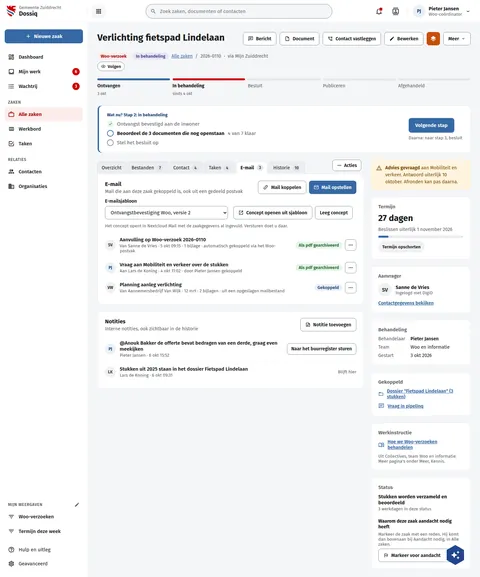
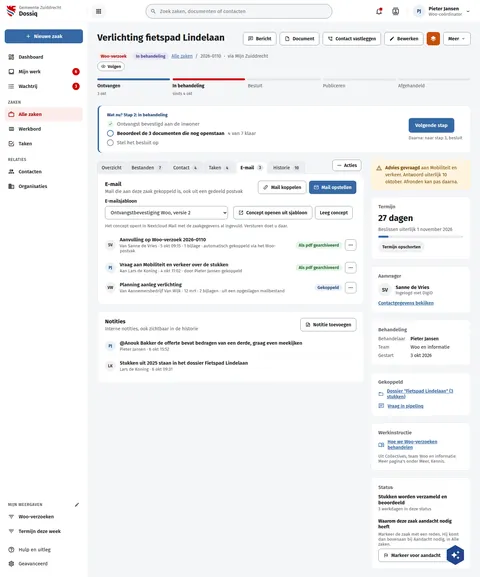
fix(screens): DqZaakEmail notes without an outcome line
The note rows drew an outcome ("Naar het buurregister sturen", "Blijft
hier") that dossiq has no field or action for. The board now draws the
note, its author and its time, as live does.

Assisted-by: ClaudeCode:claude-opus-5-5

Changed region(s): [[0.2188, 0.5927, 0.5312, 0.6551], [0.5938, 0.5927, 0.75, 0.6551]]

diff --git a/preview/screens/boards/DqZaakEmail.html b/preview/screens/boards/DqZaakEmail.html
@@ -228,7 +228,7 @@ a{color:var(--sc-primary, #3669a5)}a:hover{color:var(--sc-primary-deep, #234a78)
               <button type="button" aria-haspopup="menu" style="flex: none; align-self: flex-start; margin: 0 8px 8px 0; display: inline-flex; align-items: center; gap: 6px; min-height: 34px; padding: 0 12px; border: 1px solid var(--sc-work-field, #828a95); border-radius: 8px; background: #ffffff; font: 600 14px var(--sc-font, 'Fira Sans'), sans-serif; color: var(--sc-work-ink, #1b1c1d)"><svg width="16" height="16" viewbox="0 0 24 24" fill="currentColor"><path d="M16,12A2,2 0 0,1 18,10A2,2 0 0,1 20,12A2,2 0 0,1 18,14A2,2 0 0,1 16,12M10,12A2,2 0 0,1 12,10A2,2 0 0,1 14,12A2,2 0 0,1 12,14A2,2 0 0,1 10,12M4,12A2,2 0 0,1 6,10A2,2 0 0,1 8,12A2,2 0 0,1 6,14A2,2 0 0,1 4,12Z"></path></svg>Acties</button>
             </div>
             <section aria-label="E-mail" style="background: #ffffff; border: 1px solid var(--sc-work-line, #e4e6ea); border-radius: 0 12px 12px 12px; padding: 20px 22px; display: flex; flex-direction: column; gap: 12px"><div style="display: flex; flex-wrap: wrap; justify-content: space-between; align-items: flex-start; gap: 10px 16px"><div style="flex: 1 1 260px; min-width: 0; display: flex; flex-direction: column; gap: 3px"><h2 style="margin: 0; font-size: 17px; font-weight: 700">E-mail</h2><span style="font-size: 14px; color: var(--sc-work-muted, #5e6168)">Mail die aan deze zaak gekoppeld is, ook uit een gedeeld postvak</span></div><div style="flex: none; display: flex; flex-wrap: wrap; gap: 8px"><button type="button" style="display: inline-flex; align-items: center; gap: 8px; height: 40px; padding: 0 14px; border-radius: 8px; font: 600 14px var(--sc-font, 'Fira Sans'), sans-serif; white-space: nowrap; border: 1px solid var(--sc-work-field, #828a95); background: #ffffff; color: var(--sc-work-ink, #1b1c1d)"><svg width="16" height="16" viewbox="0 0 24 24" fill="currentColor" aria-hidden="true"><path d="M10.59,13.41C11,13.8 11,14.44 10.59,14.83C10.2,15.22 9.56,15.22 9.17,14.83C7.22,12.88 7.22,9.71 9.17,7.76V7.76L12.71,4.22C14.66,2.27 17.83,2.27 19.78,4.22C21.73,6.17 21.73,9.34 19.78,11.29L18.29,12.78C18.3,11.96 18.17,11.14 17.89,10.36L18.36,9.88C19.54,8.71 19.54,6.81 18.36,5.64C17.19,4.46 15.29,4.46 14.12,5.64L10.59,9.17C9.41,10.34 9.41,12.24 10.59,13.41M13.41,9.17C13.8,8.78 14.44,8.78 14.83,9.17C16.78,11.12 16.78,14.29 14.83,16.24V16.24L11.29,19.78C9.34,21.73 6.17,21.73 4.22,19.78C2.27,17.83 2.27,14.66 4.22,12.71L5.71,11.22C5.7,12.04 5.83,12.86 6.11,13.65L5.64,14.12C4.46,15.29 4.46,17.19 5.64,18.36C6.81,19.54 8.71,19.54 9.88,18.36L13.41,14.83C14.59,13.66 14.59,11.76 13.41,10.59C13,10.2 13,9.56 13.41,9.17Z"></path></svg>Mail koppelen</button><button type="button" style="display: inline-flex; align-items: center; gap: 8px; height: 40px; padding: 0 14px; border-radius: 8px; font: 600 14px var(--sc-font, 'Fira Sans'), sans-serif; white-space: nowrap; border: 0; background: var(--sc-primary, #3669a5); color: #ffffff"><svg width="16" height="16" viewbox="0 0 24 24" fill="currentColor" aria-hidden="true"><path d="M22 6C22 4.9 21.1 4 20 4H4C2.9 4 2 4.9 2 6V18C2 19.1 2.9 20 4 20H20C21.1 20 22 19.1 22 18V6M20 6L12 11L4 6H20M20 18H4V8L12 13L20 8V18Z"></path></svg>Mail opstellen</button></div></div><div style="display: grid; grid-template-columns: repeat(auto-fit, minmax(260px, 1fr)); gap: 14px 16px"><div style="display: flex; flex-direction: column; gap: 6px; min-width: 0"><label for="f1" style="font-size: 14px; font-weight: 600">E-mailsjabloon</label><select id="f1" style="box-sizing: border-box; width: 100%; height: 40px; padding: 0 12px; border: 1px solid var(--sc-work-field, #828a95); border-radius: 8px; background: #ffffff; font: 400 15px var(--sc-font, 'Fira Sans'), sans-serif; color: var(--sc-work-ink, #1b1c1d)"><option>Kies een sjabloon (optioneel)</option><option selected>Ontvangstbevestiging Woo, versie 2</option><option>Verzoek om verduidelijking</option><option>Verdaging van de beslistermijn</option></select></div><div style="display: flex; align-items: flex-end; gap: 8px; flex-wrap: wrap"><button type="button" style="display: inline-flex; align-items: center; gap: 8px; height: 40px; padding: 0 14px; border-radius: 8px; font: 600 14px var(--sc-font, 'Fira Sans'), sans-serif; white-space: nowrap; border: 1px solid var(--sc-work-field, #828a95); background: #ffffff; color: var(--sc-work-ink, #1b1c1d)"><svg width="16" height="16" viewbox="0 0 24 24" fill="currentColor" aria-hidden="true"><path d="M14,3V5H17.59L7.76,14.83L9.17,16.24L19,6.41V10H21V3M19,19H5V5H12V3H5C3.89,3 3,3.9 3,5V19A2,2 0 0,0 5,21H19A2,2 0 0,0 21,19V12H19V19Z"></path></svg>Concept openen uit sjabloon</button><button type="button" style="display: inline-flex; align-items: center; gap: 8px; height: 40px; padding: 0 14px; border-radius: 8px; font: 600 14px var(--sc-font, 'Fira Sans'), sans-serif; white-space: nowrap; border: 1px solid var(--sc-work-field, #828a95); background: #ffffff; color: var(--sc-work-ink, #1b1c1d)">Leeg concept</button></div></div><span style="font-size: 13px; color: var(--sc-work-muted, #5e6168)">Het concept opent in Nextcloud Mail met de zaakgegevens al ingevuld. Versturen doet u daar.</span><ul style="margin: 0; padding: 0; list-style: none; display: flex; flex-direction: column"><li style="display: flex; flex-wrap: wrap; gap: 8px 16px; align-items: center; padding: 12px 0; border-top: 1px solid var(--sc-work-soft, #eef0f3)"><span style="flex: 1 1 260px; min-width: 0; display: flex; gap: 12px; align-items: center"><span aria-hidden="true" style="width: 32px; height: 32px; flex: none; border-radius: 16px; background: var(--sc-work-chip, #f0f1f3); color: var(--sc-work-text, #3d4047); display: inline-flex; align-items: center; justify-content: center; font-size: 12px; font-weight: 700">SV</span><span style="display: flex; flex-direction: column; gap: 2px; min-width: 0"><strong style="font-size: 15px; font-weight: 600">Aanvulling op Woo-verzoek 2026-0110</strong><span style="font-size: 13px; color: var(--sc-work-muted, #5e6168)">Van Sanne de Vries · 5 okt 09:15 · 1 bijlage · automatisch gekoppeld via het Woo-postvak</span></span></span><span style="flex: none; display: flex; flex-wrap: wrap; gap: 8px; align-items: center"><span style="display: inline-block; padding: 3px 10px; border-radius: 12px; background: #e7f3ea; color: #1e6b2a; font-size: 13px; font-weight: 600; white-space: nowrap">Als pdf gearchiveerd</span><button type="button" aria-label="Meer acties voor deze mail" style="width: 34px; height: 34px; display: inline-flex; align-items: center; justify-content: center; border: 1px solid var(--sc-work-field, #828a95); border-radius: 8px; background: #ffffff; color: var(--sc-work-text, #3d4047)"><svg width="18" height="18" viewbox="0 0 24 24" fill="currentColor" aria-hidden="true"><path d="M16,12A2,2 0 0,1 18,10A2,2 0 0,1 20,12A2,2 0 0,1 18,14A2,2 0 0,1 16,12M10,12A2,2 0 0,1 12,10A2,2 0 0,1 14,12A2,2 0 0,1 12,14A2,2 0 0,1 10,12M4,12A2,2 0 0,1 6,10A2,2 0 0,1 8,12A2,2 0 0,1 6,14A2,2 0 0,1 4,12Z"></path></svg></button></span></li><li style="display: flex; flex-wrap: wrap; gap: 8px 16px; align-items: center; padding: 12px 0; border-top: 1px solid var(--sc-work-soft, #eef0f3)"><span style="flex: 1 1 260px; min-width: 0; display: flex; gap: 12px; align-items: center"><span aria-hidden="true" style="width: 32px; height: 32px; flex: none; border-radius: 16px; background: var(--sc-primary-light, #eaf0f7); color: var(--sc-primary-deep, #234a78); display: inline-flex; align-items: center; justify-content: center; font-size: 12px; font-weight: 700">PJ</span><span style="display: flex; flex-direction: column; gap: 2px; min-width: 0"><strong style="font-size: 15px; font-weight: 600">Vraag aan Mobiliteit en verkeer over de stukken</strong><span style="font-size: 13px; color: var(--sc-work-muted, #5e6168)">Aan Lars de Koning · 4 okt 11:02 · door Pieter Jansen gekoppeld</span></span></span><span style="flex: none; display: flex; flex-wrap: wrap; gap: 8px; align-items: center"><span style="display: inline-block; padding: 3px 10px; border-radius: 12px; background: #e7f3ea; color: #1e6b2a; font-size: 13px; font-weight: 600; white-space: nowrap">Als pdf gearchiveerd</span><button type="button" aria-label="Meer acties voor deze mail" style="width: 34px; height: 34px; display: inline-flex; align-items: center; justify-content: center; border: 1px solid var(--sc-work-field, #828a95); border-radius: 8px; background: #ffffff; color: var(--sc-work-text, #3d4047)"><svg width="18" height="18" viewbox="0 0 24 24" fill="currentColor" aria-hidden="true"><path d="M16,12A2,2 0 0,1 18,10A2,2 0 0,1 20,12A2,2 0 0,1 18,14A2,2 0 0,1 16,12M10,12A2,2 0 0,1 12,10A2,2 0 0,1 14,12A2,2 0 0,1 12,14A2,2 0 0,1 10,12M4,12A2,2 0 0,1 6,10A2,2 0 0,1 8,12A2,2 0 0,1 6,14A2,2 0 0,1 4,12Z"></path></svg></button></span></li><li style="display: flex; flex-wrap: wrap; gap: 8px 16px; align-items: center; padding: 12px 0; border-top: 1px solid var(--sc-work-soft, #eef0f3)"><span style="flex: 1 1 260px; min-width: 0; display: flex; gap: 12px; align-items: center"><span aria-hidden="true" style="width: 32px; height: 32px; flex: none; border-radius: 16px; background: var(--sc-work-chip, #f0f1f3); color: var(--sc-work-text, #3d4047); display: inline-flex; align-items: center; justify-content: center; font-size: 12px; font-weight: 700">VW</span><span style="display: flex; flex-direction: column; gap: 2px; min-width: 0"><strong style="font-size: 15px; font-weight: 600">Planning aanleg verlichting</strong><span style="font-size: 13px; color: var(--sc-work-muted, #5e6168)">Van Aannemersbedrijf Van Wijk · 12 mrt · 2 bijlagen · uit een opgeslagen mailbestand</span></span></span><span style="flex: none; display: flex; flex-wrap: wrap; gap: 8px; align-items: center"><span style="display: inline-block; padding: 3px 10px; border-radius: 12px; background: var(--sc-primary-light, #eaf0f7); color: var(--sc-primary-deep, #234a78); font-size: 13px; font-weight: 600; white-space: nowrap">Gekoppeld</span><button type="button" aria-label="Meer acties voor deze mail" style="width: 34px; height: 34px; display: inline-flex; align-items: center; justify-content: center; border: 1px solid var(--sc-work-field, #828a95); border-radius: 8px; background: #ffffff; color: var(--sc-work-text, #3d4047)"><svg width="18" height="18" viewbox="0 0 24 24" fill="currentColor" aria-hidden="true"><path d="M16,12A2,2 0 0,1 18,10A2,2 0 0,1 20,12A2,2 0 0,1 18,14A2,2 0 0,1 16,12M10,12A2,2 0 0,1 12,10A2,2 0 0,1 14,12A2,2 0 0,1 12,14A2,2 0 0,1 10,12M4,12A2,2 0 0,1 6,10A2,2 0 0,1 8,12A2,2 0 0,1 6,14A2,2 0 0,1 4,12Z"></path></svg></button></span></li></ul></section>
-            <section style="background: #ffffff; border: 1px solid var(--sc-work-line, #e4e6ea); border-radius: 12px; padding: 20px 22px; display: flex; flex-direction: column; gap: 12px"><div style="display: flex; flex-wrap: wrap; justify-content: space-between; align-items: flex-start; gap: 10px 16px"><div style="flex: 1 1 260px; min-width: 0; display: flex; flex-direction: column; gap: 3px"><h2 style="margin: 0; font-size: 17px; font-weight: 700">Notities</h2><span style="font-size: 14px; color: var(--sc-work-muted, #5e6168)">Interne notities, ook zichtbaar in de historie</span></div><div style="flex: none; display: flex; flex-wrap: wrap; gap: 8px"><button type="button" style="display: inline-flex; align-items: center; gap: 8px; height: 40px; padding: 0 14px; border-radius: 8px; font: 600 14px var(--sc-font, 'Fira Sans'), sans-serif; white-space: nowrap; border: 1px solid var(--sc-work-field, #828a95); background: #ffffff; color: var(--sc-work-ink, #1b1c1d)"><svg width="16" height="16" viewbox="0 0 24 24" fill="currentColor" aria-hidden="true"><path d="M15 3H5A2 2 0 0 0 3 5V19A2 2 0 0 0 5 21H19A2 2 0 0 0 21 19V9L15 3M19 19H5V5H14V10H19M17 14H7V12H17M14 17H7V15H14"></path></svg>Notitie toevoegen</button></div></div><ul style="margin: 0; padding: 0; list-style: none; display: flex; flex-direction: column"><li style="display: flex; flex-wrap: wrap; gap: 8px 16px; align-items: center; padding: 12px 0; border-top: 1px solid var(--sc-work-soft, #eef0f3)"><span style="flex: 1 1 260px; min-width: 0; display: flex; gap: 12px; align-items: center"><span aria-hidden="true" style="width: 32px; height: 32px; flex: none; border-radius: 16px; background: var(--sc-primary-light, #eaf0f7); color: var(--sc-primary-deep, #234a78); display: inline-flex; align-items: center; justify-content: center; font-size: 12px; font-weight: 700">PJ</span><span style="display: flex; flex-direction: column; gap: 2px; min-width: 0"><strong style="font-size: 15px; font-weight: 600">@Anouk Bakker de offerte bevat bedragen van een derde, graag even meekijken</strong><span style="font-size: 13px; color: var(--sc-work-muted, #5e6168)">Pieter Jansen · 6 okt 15:52</span></span></span><span style="flex: none; display: flex; flex-wrap: wrap; gap: 8px; align-items: center"><button type="button" style="display: inline-flex; align-items: center; gap: 8px; height: 34px; padding: 0 12px; border-radius: 8px; font: 600 14px var(--sc-font, 'Fira Sans'), sans-serif; white-space: nowrap; border: 1px solid var(--sc-work-field, #828a95); background: #ffffff; color: var(--sc-work-ink, #1b1c1d)">Naar het buurregister sturen</button></span></li><li style="display: flex; flex-wrap: wrap; gap: 8px 16px; align-items: center; padding: 12px 0; border-top: 1px solid var(--sc-work-soft, #eef0f3)"><span style="flex: 1 1 260px; min-width: 0; display: flex; gap: 12px; align-items: center"><span aria-hidden="true" style="width: 32px; height: 32px; flex: none; border-radius: 16px; background: var(--sc-work-chip, #f0f1f3); color: var(--sc-work-text, #3d4047); display: inline-flex; align-items: center; justify-content: center; font-size: 12px; font-weight: 700">LK</span><span style="display: flex; flex-direction: column; gap: 2px; min-width: 0"><strong style="font-size: 15px; font-weight: 600">Stukken uit 2025 staan in het dossier Fietspad Lindelaan</strong><span style="font-size: 13px; color: var(--sc-work-muted, #5e6168)">Lars de Koning · 6 okt 09:31</span></span></span><span style="flex: none; display: flex; flex-wrap: wrap; gap: 8px; align-items: center"><span style="font-size: 13px; color: var(--sc-work-muted, #5e6168)">Blijft hier</span></span></li></ul></section>
+            <section style="background: #ffffff; border: 1px solid var(--sc-work-line, #e4e6ea); border-radius: 12px; padding: 20px 22px; display: flex; flex-direction: column; gap: 12px"><div style="display: flex; flex-wrap: wrap; justify-content: space-between; align-items: flex-start; gap: 10px 16px"><div style="flex: 1 1 260px; min-width: 0; display: flex; flex-direction: column; gap: 3px"><h2 style="margin: 0; font-size: 17px; font-weight: 700">Notities</h2><span style="font-size: 14px; color: var(--sc-work-muted, #5e6168)">Interne notities, ook zichtbaar in de historie</span></div><div style="flex: none; display: flex; flex-wrap: wrap; gap: 8px"><button type="button" style="display: inline-flex; align-items: center; gap: 8px; height: 40px; padding: 0 14px; border-radius: 8px; font: 600 14px var(--sc-font, 'Fira Sans'), sans-serif; white-space: nowrap; border: 1px solid var(--sc-work-field, #828a95); background: #ffffff; color: var(--sc-work-ink, #1b1c1d)"><svg width="16" height="16" viewbox="0 0 24 24" fill="currentColor" aria-hidden="true"><path d="M15 3H5A2 2 0 0 0 3 5V19A2 2 0 0 0 5 21H19A2 2 0 0 0 21 19V9L15 3M19 19H5V5H14V10H19M17 14H7V12H17M14 17H7V15H14"></path></svg>Notitie toevoegen</button></div></div><ul style="margin: 0; padding: 0; list-style: none; display: flex; flex-direction: column"><li style="display: flex; flex-wrap: wrap; gap: 8px 16px; align-items: center; padding: 12px 0; border-top: 1px solid var(--sc-work-soft, #eef0f3)"><span style="flex: 1 1 260px; min-width: 0; display: flex; gap: 12px; align-items: center"><span aria-hidden="true" style="width: 32px; height: 32px; flex: none; border-radius: 16px; background: var(--sc-primary-light, #eaf0f7); color: var(--sc-primary-deep, #234a78); display: inline-flex; align-items: center; justify-content: center; font-size: 12px; font-weight: 700">PJ</span><span style="display: flex; flex-direction: column; gap: 2px; min-width: 0"><strong style="font-size: 15px; font-weight: 600">@Anouk Bakker de offerte bevat bedragen van een derde, graag even meekijken</strong><span style="font-size: 13px; color: var(--sc-work-muted, #5e6168)">Pieter Jansen · 6 okt 15:52</span></span></span></li><li style="display: flex; flex-wrap: wrap; gap: 8px 16px; align-items: center; padding: 12px 0; border-top: 1px solid var(--sc-work-soft, #eef0f3)"><span style="flex: 1 1 260px; min-width: 0; display: flex; gap: 12px; align-items: center"><span aria-hidden="true" style="width: 32px; height: 32px; flex: none; border-radius: 16px; background: var(--sc-work-chip, #f0f1f3); color: var(--sc-work-text, #3d4047); display: inline-flex; align-items: center; justify-content: center; font-size: 12px; font-weight: 700">LK</span><span style="display: flex; flex-direction: column; gap: 2px; min-width: 0"><strong style="font-size: 15px; font-weight: 600">Stukken uit 2025 staan in het dossier Fietspad Lindelaan</strong><span style="font-size: 13px; color: var(--sc-work-muted, #5e6168)">Lars de Koning · 6 okt 09:31</span></span></span></li></ul></section>
           </div>
 
           <aside style="flex: 1 1 300px; min-width: 0; display: flex; flex-direction: column; gap: 20px">

diff --git a/screens-src/zuiddrecht/DqZaakEmail.dc.html b/screens-src/zuiddrecht/DqZaakEmail.dc.html
@@ -76,7 +76,7 @@ a{color:#3669a5}a:hover{color:#234a78}
               <button type="button" aria-haspopup="menu" style="flex: none; align-self: flex-start; margin: 0 8px 8px 0; display: inline-flex; align-items: center; gap: 6px; min-height: 34px; padding: 0 12px; border: 1px solid #828a95; border-radius: 8px; background: #ffffff; font: 600 14px 'Fira Sans', sans-serif; color: #1b1c1d"><svg width="16" height="16" viewBox="0 0 24 24" fill="currentColor"><path d="M16,12A2,2 0 0,1 18,10A2,2 0 0,1 20,12A2,2 0 0,1 18,14A2,2 0 0,1 16,12M10,12A2,2 0 0,1 12,10A2,2 0 0,1 14,12A2,2 0 0,1 12,14A2,2 0 0,1 10,12M4,12A2,2 0 0,1 6,10A2,2 0 0,1 8,12A2,2 0 0,1 6,14A2,2 0 0,1 4,12Z"></path></svg>Acties</button>
             </div>
             <section aria-label="E-mail" style="background: #ffffff; border: 1px solid #e4e6ea; border-radius: 0 12px 12px 12px; padding: 20px 22px; display: flex; flex-direction: column; gap: 12px"><div style="display: flex; flex-wrap: wrap; justify-content: space-between; align-items: flex-start; gap: 10px 16px"><div style="flex: 1 1 260px; min-width: 0; display: flex; flex-direction: column; gap: 3px"><h2 style="margin: 0; font-size: 17px; font-weight: 700">E-mail</h2><span style="font-size: 14px; color: #5e6168">Mail die aan deze zaak gekoppeld is, ook uit een gedeeld postvak</span></div><div style="flex: none; display: flex; flex-wrap: wrap; gap: 8px"><button type="button" style="display: inline-flex; align-items: center; gap: 8px; height: 40px; padding: 0 14px; border-radius: 8px; font: 600 14px 'Fira Sans', sans-serif; white-space: nowrap; border: 1px solid #828a95; background: #ffffff; color: #1b1c1d"><svg width="16" height="16" viewBox="0 0 24 24" fill="currentColor" aria-hidden="true"><path d="M10.59,13.41C11,13.8 11,14.44 10.59,14.83C10.2,15.22 9.56,15.22 9.17,14.83C7.22,12.88 7.22,9.71 9.17,7.76V7.76L12.71,4.22C14.66,2.27 17.83,2.27 19.78,4.22C21.73,6.17 21.73,9.34 19.78,11.29L18.29,12.78C18.3,11.96 18.17,11.14 17.89,10.36L18.36,9.88C19.54,8.71 19.54,6.81 18.36,5.64C17.19,4.46 15.29,4.46 14.12,5.64L10.59,9.17C9.41,10.34 9.41,12.24 10.59,13.41M13.41,9.17C13.8,8.78 14.44,8.78 14.83,9.17C16.78,11.12 16.78,14.29 14.83,16.24V16.24L11.29,19.78C9.34,21.73 6.17,21.73 4.22,19.78C2.27,17.83 2.27,14.66 4.22,12.71L5.71,11.22C5.7,12.04 5.83,12.86 6.11,13.65L5.64,14.12C4.46,15.29 4.46,17.19 5.64,18.36C6.81,19.54 8.71,19.54 9.88,18.36L13.41,14.83C14.59,13.66 14.59,11.76 13.41,10.59C13,10.2 13,9.56 13.41,9.17Z"></path></svg>Mail koppelen</button><button type="button" style="display: inline-flex; align-items: center; gap: 8px; height: 40px; padding: 0 14px; border-radius: 8px; font: 600 14px 'Fira Sans', sans-serif; white-space: nowrap; border: 0; background: #3669a5; color: #ffffff"><svg width="16" height="16" viewBox="0 0 24 24" fill="currentColor" aria-hidden="true"><path d="M22 6C22 4.9 21.1 4 20 4H4C2.9 4 2 4.9 2 6V18C2 19.1 2.9 20 4 20H20C21.1 20 22 19.1 22 18V6M20 6L12 11L4 6H20M20 18H4V8L12 13L20 8V18Z"></path></svg>Mail opstellen</button></div></div><div style="display: grid; grid-template-columns: repeat(auto-fit, minmax(260px, 1fr)); gap: 14px 16px"><div style="display: flex; flex-direction: column; gap: 6px; min-width: 0"><label for="f1" style="font-size: 14px; font-weight: 600">E-mailsjabloon</label><select id="f1" style="box-sizing: border-box; width: 100%; height: 40px; padding: 0 12px; border: 1px solid #828a95; border-radius: 8px; background: #ffffff; font: 400 15px 'Fira Sans', sans-serif; color: #1b1c1d"><option>Kies een sjabloon (optioneel)</option><option selected>Ontvangstbevestiging Woo, versie 2</option><option>Verzoek om verduidelijking</option><option>Verdaging van de beslistermijn</option></select></div><div style="display: flex; align-items: flex-end; gap: 8px; flex-wrap: wrap"><button type="button" style="display: inline-flex; align-items: center; gap: 8px; height: 40px; padding: 0 14px; border-radius: 8px; font: 600 14px 'Fira Sans', sans-serif; white-space: nowrap; border: 1px solid #828a95; background: #ffffff; color: #1b1c1d"><svg width="16" height="16" viewBox="0 0 24 24" fill="currentColor" aria-hidden="true"><path d="M14,3V5H17.59L7.76,14.83L9.17,16.24L19,6.41V10H21V3M19,19H5V5H12V3H5C3.89,3 3,3.9 3,5V19A2,2 0 0,0 5,21H19A2,2 0 0,0 21,19V12H19V19Z"></path></svg>Concept openen uit sjabloon</button><button type="button" style="display: inline-flex; align-items: center; gap: 8px; height: 40px; padding: 0 14px; border-radius: 8px; font: 600 14px 'Fira Sans', sans-serif; white-space: nowrap; border: 1px solid #828a95; background: #ffffff; color: #1b1c1d">Leeg concept</button></div></div><span style="font-size: 13px; color: #5e6168">Het concept opent in Nextcloud Mail met de zaakgegevens al ingevuld. Versturen doet u daar.</span><ul style="margin: 0; padding: 0; list-style: none; display: flex; flex-direction: column"><li style="display: flex; flex-wrap: wrap; gap: 8px 16px; align-items: center; padding: 12px 0; border-top: 1px solid #eef0f3"><span style="flex: 1 1 260px; min-width: 0; display: flex; gap: 12px; align-items: center"><span aria-hidden="true" style="width: 32px; height: 32px; flex: none; border-radius: 16px; background: #f0f1f3; color: #3d4047; display: inline-flex; align-items: center; justify-content: center; font-size: 12px; font-weight: 700">SV</span><span style="display: flex; flex-direction: column; gap: 2px; min-width: 0"><strong style="font-size: 15px; font-weight: 600">Aanvulling op Woo-verzoek 2026-0110</strong><span style="font-size: 13px; color: #5e6168">Van Sanne de Vries · 5 okt 09:15 · 1 bijlage · automatisch gekoppeld via het Woo-postvak</span></span></span><span style="flex: none; display: flex; flex-wrap: wrap; gap: 8px; align-items: center"><span style="display: inline-block; padding: 3px 10px; border-radius: 12px; background: #e7f3ea; color: #1e6b2a; font-size: 13px; font-weight: 600; white-space: nowrap">Als pdf gearchiveerd</span><button type="button" aria-label="Meer acties voor deze mail" style="width: 34px; height: 34px; display: inline-flex; align-items: center; justify-content: center; border: 1px solid #828a95; border-radius: 8px; background: #ffffff; color: #3d4047"><svg width="18" height="18" viewBox="0 0 24 24" fill="currentColor" aria-hidden="true"><path d="M16,12A2,2 0 0,1 18,10A2,2 0 0,1 20,12A2,2 0 0,1 18,14A2,2 0 0,1 16,12M10,12A2,2 0 0,1 12,10A2,2 0 0,1 14,12A2,2 0 0,1 12,14A2,2 0 0,1 10,12M4,12A2,2 0 0,1 6,10A2,2 0 0,1 8,12A2,2 0 0,1 6,14A2,2 0 0,1 4,12Z"></path></svg></button></span></li><li style="display: flex; flex-wrap: wrap; gap: 8px 16px; align-items: center; padding: 12px 0; border-top: 1px solid #eef0f3"><span style="flex: 1 1 260px; min-width: 0; display: flex; gap: 12px; align-items: center"><span aria-hidden="true" style="width: 32px; height: 32px; flex: none; border-radius: 16px; background: #eaf0f7; color: #234a78; display: inline-flex; align-items: center; justify-content: center; font-size: 12px; font-weight: 700">PJ</span><span style="display: flex; flex-direction: column; gap: 2px; min-width: 0"><strong style="font-size: 15px; font-weight: 600">Vraag aan Mobiliteit en verkeer over de stukken</strong><span style="font-size: 13px; color: #5e6168">Aan Lars de Koning · 4 okt 11:02 · door Pieter Jansen gekoppeld</span></span></span><span style="flex: none; display: flex; flex-wrap: wrap; gap: 8px; align-items: center"><span style="display: inline-block; padding: 3px 10px; border-radius: 12px; background: #e7f3ea; color: #1e6b2a; font-size: 13px; font-weight: 600; white-space: nowrap">Als pdf gearchiveerd</span><button type="button" aria-label="Meer acties voor deze mail" style="width: 34px; height: 34px; display: inline-flex; align-items: center; justify-content: center; border: 1px solid #828a95; border-radius: 8px; background: #ffffff; color: #3d4047"><svg width="18" height="18" viewBox="0 0 24 24" fill="currentColor" aria-hidden="true"><path d="M16,12A2,2 0 0,1 18,10A2,2 0 0,1 20,12A2,2 0 0,1 18,14A2,2 0 0,1 16,12M10,12A2,2 0 0,1 12,10A2,2 0 0,1 14,12A2,2 0 0,1 12,14A2,2 0 0,1 10,12M4,12A2,2 0 0,1 6,10A2,2 0 0,1 8,12A2,2 0 0,1 6,14A2,2 0 0,1 4,12Z"></path></svg></button></span></li><li style="display: flex; flex-wrap: wrap; gap: 8px 16px; align-items: center; padding: 12px 0; border-top: 1px solid #eef0f3"><span style="flex: 1 1 260px; min-width: 0; display: flex; gap: 12px; align-items: center"><span aria-hidden="true" style="width: 32px; height: 32px; flex: none; border-radius: 16px; background: #f0f1f3; color: #3d4047; display: inline-flex; align-items: center; justify-content: center; font-size: 12px; font-weight: 700">VW</span><span style="display: flex; flex-direction: column; gap: 2px; min-width: 0"><strong style="font-size: 15px; font-weight: 600">Planning aanleg verlichting</strong><span style="font-size: 13px; color: #5e6168">Van Aannemersbedrijf Van Wijk · 12 mrt · 2 bijlagen · uit een opgeslagen mailbestand</span></span></span><span style="flex: none; display: flex; flex-wrap: wrap; gap: 8px; align-items: center"><span style="display: inline-block; padding: 3px 10px; border-radius: 12px; background: #eaf0f7; color: #234a78; font-size: 13px; font-weight: 600; white-space: nowrap">Gekoppeld</span><button type="button" aria-label="Meer acties voor deze mail" style="width: 34px; height: 34px; display: inline-flex; align-items: center; justify-content: center; border: 1px solid #828a95; border-radius: 8px; background: #ffffff; color: #3d4047"><svg width="18" height="18" viewBox="0 0 24 24" fill="currentColor" aria-hidden="true"><path d="M16,12A2,2 0 0,1 18,10A2,2 0 0,1 20,12A2,2 0 0,1 18,14A2,2 0 0,1 16,12M10,12A2,2 0 0,1 12,10A2,2 0 0,1 14,12A2,2 0 0,1 12,14A2,2 0 0,1 10,12M4,12A2,2 0 0,1 6,10A2,2 0 0,1 8,12A2,2 0 0,1 6,14A2,2 0 0,1 4,12Z"></path></svg></button></span></li></ul></section>
-            <section style="background: #ffffff; border: 1px solid #e4e6ea; border-radius: 12px; padding: 20px 22px; display: flex; flex-direction: column; gap: 12px"><div style="display: flex; flex-wrap: wrap; justify-content: space-between; align-items: flex-start; gap: 10px 16px"><div style="flex: 1 1 260px; min-width: 0; display: flex; flex-direction: column; gap: 3px"><h2 style="margin: 0; font-size: 17px; font-weight: 700">Notities</h2><span style="font-size: 14px; color: #5e6168">Interne notities, ook zichtbaar in de historie</span></div><div style="flex: none; display: flex; flex-wrap: wrap; gap: 8px"><button type="button" style="display: inline-flex; align-items: center; gap: 8px; height: 40px; padding: 0 14px; border-radius: 8px; font: 600 14px 'Fira Sans', sans-serif; white-space: nowrap; border: 1px solid #828a95; background: #ffffff; color: #1b1c1d"><svg width="16" height="16" viewBox="0 0 24 24" fill="currentColor" aria-hidden="true"><path d="M15 3H5A2 2 0 0 0 3 5V19A2 2 0 0 0 5 21H19A2 2 0 0 0 21 19V9L15 3M19 19H5V5H14V10H19M17 14H7V12H17M14 17H7V15H14"></path></svg>Notitie toevoegen</button></div></div><ul style="margin: 0; padding: 0; list-style: none; display: flex; flex-direction: column"><li style="display: flex; flex-wrap: wrap; gap: 8px 16px; align-items: center; padding: 12px 0; border-top: 1px solid #eef0f3"><span style="flex: 1 1 260px; min-width: 0; display: flex; gap: 12px; align-items: center"><span aria-hidden="true" style="width: 32px; height: 32px; flex: none; border-radius: 16px; background: #eaf0f7; color: #234a78; display: inline-flex; align-items: center; justify-content: center; font-size: 12px; font-weight: 700">PJ</span><span style="display: flex; flex-direction: column; gap: 2px; min-width: 0"><strong style="font-size: 15px; font-weight: 600">@Anouk Bakker de offerte bevat bedragen van een derde, graag even meekijken</strong><span style="font-size: 13px; color: #5e6168">Pieter Jansen · 6 okt 15:52</span></span></span><span style="flex: none; display: flex; flex-wrap: wrap; gap: 8px; align-items: center"><button type="button" style="display: inline-flex; align-items: center; gap: 8px; height: 34px; padding: 0 12px; border-radius: 8px; font: 600 14px 'Fira Sans', sans-serif; white-space: nowrap; border: 1px solid #828a95; background: #ffffff; color: #1b1c1d">Naar het buurregister sturen</button></span></li><li style="display: flex; flex-wrap: wrap; gap: 8px 16px; align-items: center; padding: 12px 0; border-top: 1px solid #eef0f3"><span style="flex: 1 1 260px; min-width: 0; display: flex; gap: 12px; align-items: center"><span aria-hidden="true" style="width: 32px; height: 32px; flex: none; border-radius: 16px; background: #f0f1f3; color: #3d4047; display: inline-flex; align-items: center; justify-content: center; font-size: 12px; font-weight: 700">LK</span><span style="display: flex; flex-direction: column; gap: 2px; min-width: 0"><strong style="font-size: 15px; font-weight: 600">Stukken uit 2025 staan in het dossier Fietspad Lindelaan</strong><span style="font-size: 13px; color: #5e6168">Lars de Koning · 6 okt 09:31</span></span></span><span style="flex: none; display: flex; flex-wrap: wrap; gap: 8px; align-items: center"><span style="font-size: 13px; color: #5e6168">Blijft hier</span></span></li></ul></section>
+            <section style="background: #ffffff; border: 1px solid #e4e6ea; border-radius: 12px; padding: 20px 22px; display: flex; flex-direction: column; gap: 12px"><div style="display: flex; flex-wrap: wrap; justify-content: space-between; align-items: flex-start; gap: 10px 16px"><div style="flex: 1 1 260px; min-width: 0; display: flex; flex-direction: column; gap: 3px"><h2 style="margin: 0; font-size: 17px; font-weight: 700">Notities</h2><span style="font-size: 14px; color: #5e6168">Interne notities, ook zichtbaar in de historie</span></div><div style="flex: none; display: flex; flex-wrap: wrap; gap: 8px"><button type="button" style="display: inline-flex; align-items: center; gap: 8px; height: 40px; padding: 0 14px; border-radius: 8px; font: 600 14px 'Fira Sans', sans-serif; white-space: nowrap; border: 1px solid #828a95; background: #ffffff; color: #1b1c1d"><svg width="16" height="16" viewBox="0 0 24 24" fill="currentColor" aria-hidden="true"><path d="M15 3H5A2 2 0 0 0 3 5V19A2 2 0 0 0 5 21H19A2 2 0 0 0 21 19V9L15 3M19 19H5V5H14V10H19M17 14H7V12H17M14 17H7V15H14"></path></svg>Notitie toevoegen</button></div></div><ul style="margin: 0; padding: 0; list-style: none; display: flex; flex-direction: column"><li style="display: flex; flex-wrap: wrap; gap: 8px 16px; align-items: center; padding: 12px 0; border-top: 1px solid #eef0f3"><span style="flex: 1 1 260px; min-width: 0; display: flex; gap: 12px; align-items: center"><span aria-hidden="true" style="width: 32px; height: 32px; flex: none; border-radius: 16px; background: #eaf0f7; color: #234a78; display: inline-flex; align-items: center; justify-content: center; font-size: 12px; font-weight: 700">PJ</span><span style="display: flex; flex-direction: column; gap: 2px; min-width: 0"><strong style="font-size: 15px; font-weight: 600">@Anouk Bakker de offerte bevat bedragen van een derde, graag even meekijken</strong><span style="font-size: 13px; color: #5e6168">Pieter Jansen · 6 okt 15:52</span></span></span></li><li style="display: flex; flex-wrap: wrap; gap: 8px 16px; align-items: center; padding: 12px 0; border-top: 1px solid #eef0f3"><span style="flex: 1 1 260px; min-width: 0; display: flex; gap: 12px; align-items: center"><span aria-hidden="true" style="width: 32px; height: 32px; flex: none; border-radius: 16px; background: #f0f1f3; color: #3d4047; display: inline-flex; align-items: center; justify-content: center; font-size: 12px; font-weight: 700">LK</span><span style="display: flex; flex-direction: column; gap: 2px; min-width: 0"><strong style="font-size: 15px; font-weight: 600">Stukken uit 2025 staan in het dossier Fietspad Lindelaan</strong><span style="font-size: 13px; color: #5e6168">Lars de Koning · 6 okt 09:31</span></span></span></li></ul></section>
           </div>
 
           <aside style="flex: 1 1 300px; min-width: 0; display: flex; flex-direction: column; gap: 20px">
